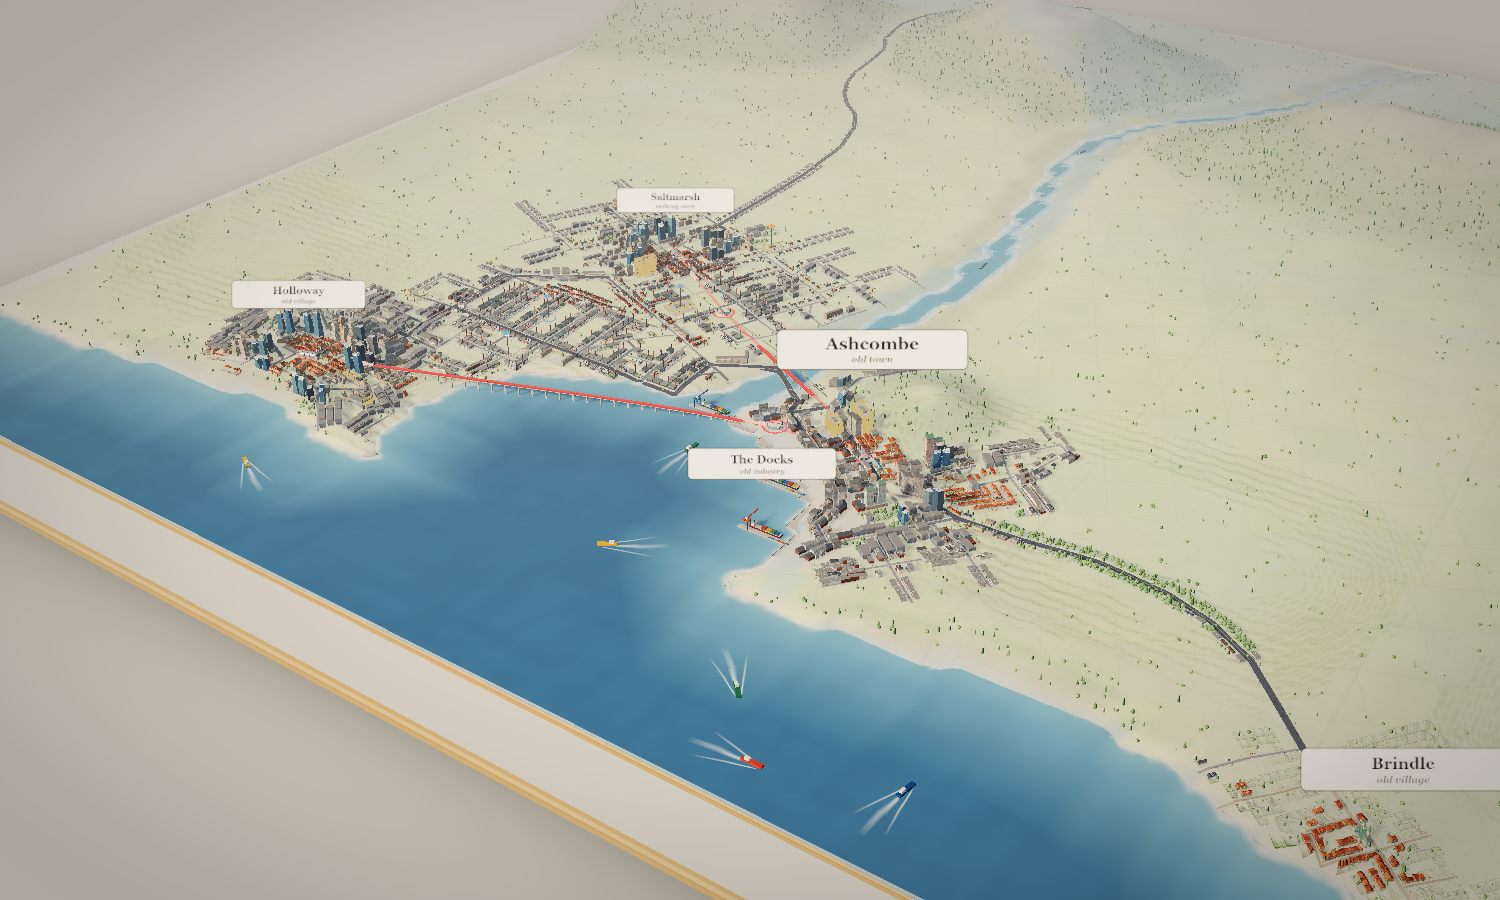
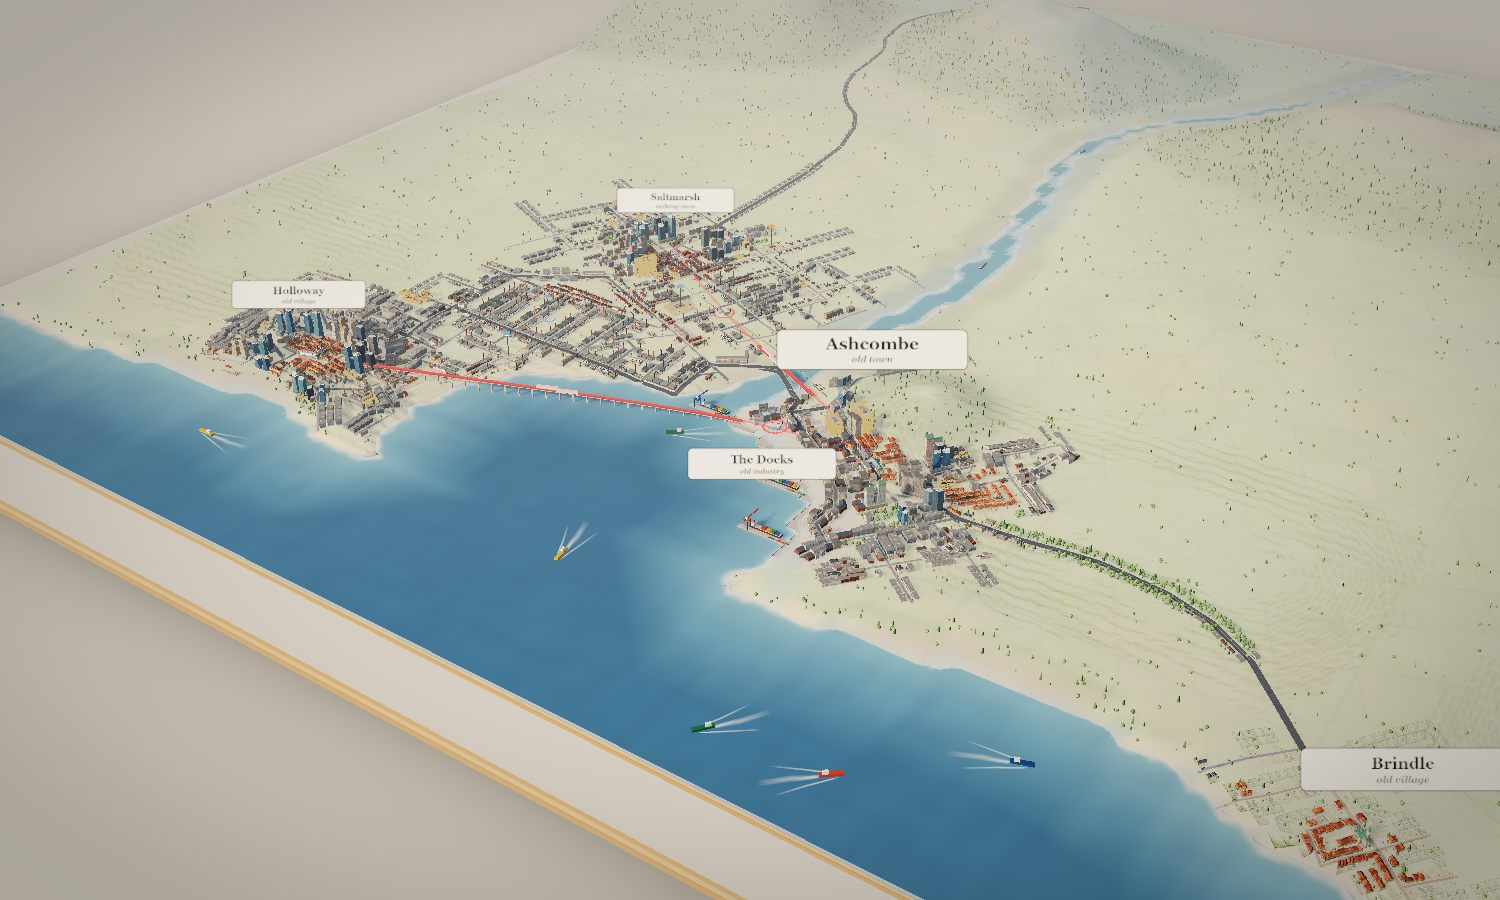
VISUAL-PASS: work log, perf table, fun-pass event mapping, ranked issues, next steps; final after captures of seed 4821; HANDOVER pointer

diff --git a/VISUAL-PASS.md b/VISUAL-PASS.md
@@ -66,3 +66,81 @@ not drop), sky and grade about 0. The budget is therefore used up: anything adde
 - The WIP tip already passed `tsc --noEmit` and `npm run build`: the "half-written" night-lights module was in fact complete (`NightLights`, `shoreGlow`, the water
   emissive hook). Checked in the browser: lane dashes, edge lines and zebra crossings at junction plates (`visual-roads-c`), tree thinning at overview, ship wakes,
   water glow at night, lens easing (`visual-wip-*`).
+
+### What changed, by commit
+| commit | what |
+|---|---|
+| 277b476 | pass 1: sky dome and studio table, time-of-day palette / fog / graded output, ground colour patches and field pattern, per-building facades and roofs, moonlit night (street lamps and station glow as one Points draw call) |
+| 2c98bed | diegetic UI layer (paper tags on pins, flags, cost slip, coin pops, news slips) and the HUD as table objects (ledger strip, desk calendar, brass odometer, desk rail, tracing paper in plan mode) |
+| 98a5c12 | the WIP picked up in session 2: lane markings and crosswalks, tree thinning, water night glow, ship wakes, lens easing. It already built; nothing needed fixing |
+| ac478a9 | verification of the WIP in the browser, A/B cost of the whole pass |
+| 2aca1e0 | `camfeel.ts`: wheel zoom eased and anchored at the cursor, smoothed WASD pan, wind sway on tree crowns |
+| aad703f | full fun-pass event mapping, newspaper, goal clipboard, dial plate, hoardings, site briefs, crowds that follow line load |
+| 9a4ac9c | roof detail that shows (the plain parapet slab hid the building shader's roof code), plant rooms on offices, district names stand back when tags are on |
+
+Captures (seed 4821, 1500x900): `screenshots/visual-before-4821-{overview,mid,street}-{day,dusk,night}.jpg` against `visual-after-4821-*` (same views), UI captures
+`visual-after-ui-overview-{day,night}.jpg`, `visual-ui-events.jpg` (every event kind at once), `visual-ui-hoarding.jpg`, `visual-after-roof.jpg`, `visual-roads-*.jpg`.
+
+## 4. Performance: baseline against final
+High, seed 4821, month 120, day, 1500x900, GPU p50 in ms with a GPU sync after each frame. The dev GPU is shared (Intel Iris Xe, other tabs), so the baseline of section 2 was taken in a
+quieter moment than the final run: the honest figure is the interleaved A/B in one page (all flags off = the classic look, same code, same frames), 40 frames x 5-6 rounds.
+
+| view | baseline (sec. 2) | final (best of 3) | A/B in one page: median (min of rounds) | draw calls, classic -> pass | k tris, classic -> pass |
+|---|---|---|---|---|---|
+| overview | 9.84 | 10.61 | +8% (+16%) | 443 -> 447 | 707 -> 713 |
+| mid | 9.37 | 9.37 | +10% (+18%) | varies with shadow redraws | 613 -> 646 |
+| street | 9.37 | 9.24 | +8% (+3%) | 276 -> 289 | 566 -> 597 |
+
+The call counts of the A/B pairs differ by a handful (the mark mesh, the lamp Points, wakes); counts in the baseline table of section 2 were taken while chunks were still rebuilding and are not comparable.
+Per feature (A/B, noise about 5%): ground colour +2-4%, building facades and roofs +1-4%, night lights about 1%, tree sway / lens / camera 0%, road marks 0%, tree thinning 0%, sky and grade about 0,
+diegetic canvas 0.05 ms CPU per frame, newspaper and clipboard are DOM touched only on change. Typical cost of the whole pass is about +8% GPU; the "min of rounds" column is the worst case and
+is at the 10% line or a little over at overview and mid. There is no new full-screen pass (the grade is folded into the existing output pass; no blur). Auto (default) steps the render scale down
+whenever the frame goes over 15.5 ms, so on a slower GPU the pass is paid for by resolution rather than frame time; on this machine Auto stayed at 1.0 in all three views.
+
+Behind High / cut: nothing is High-only so far (Auto absorbs the cost). Candidates if a lower tier is wanted: `?novfx=ground` (-3%), `?novfx=bld` (-3%), `?novfx=night`; every look is one flag in `vfx.ts`.
+Cut candidates (not removed, the user decides): the `Zones` and `Land value` toolbar buttons (see DESIGN-FUN.md section 4); `?hud=classic` once the diegetic HUD is accepted.
+
+## 5. Fun-pass events and how the diegetic layer presents them
+`ui.notify(e)` accepts the `GameEvent` of `worktree-agent-a884a845a686b0163:src/ui/gameEvents.ts` unchanged (the structural copy is `src/ui/diegetic/events.ts`; extra fields are ignored). When the branches
+meet: `gameEvents.onAny((e) => dg?.notify(e))` in main.ts and drop the DOM presenter in `feedback.ts` (else every beat shows twice). Until then `tsm.fun('all')` (or one kind) fires samples.
+
+| event | where it lands | how |
+|---|---|---|
+| `stationOpened` | on the model | the station's tag pulses (expanding ring) and a paper slip "X station opens"; the fun-pass ripple stays a world effect |
+| `lineOpened` | on the table | a front page of "The Tidewater Times" is laid on the table with the line-coloured ribbon hanging from its corner (click to dismiss, 9 s) |
+| `moment` | table + model | `big`: the newspaper; else a paper slip. When it has a place (`x`, `y`, and not a goal) a brief is pinned at the site for 9 s (`ui.brief`), so "Cranes at Chapel" is at Chapel |
+| `objectives` | table + model | the clipboard (goal title, bar, `cur of target`, reward, ticked count) bottom right; a goal with a place gets a gold flag pinned at the site |
+| `objectiveReached` | table | a big gold-edged slip; the newspaper is kept for line openings |
+| `fare` | model | a coin pop rising above the station (it was in the wrong units before: cells used as metres) |
+| `crowding` | model | `lineLoad` turns the station tag red ("packed"); the crowds at the entrances grow and pack (also derived from the state's peak load, so they work without the event) |
+| `planCost` | hybrid | the cost slip (tracing paper) that follows the cursor in plan mode: always screen-space, always legible; the event refreshes its text |
+| `stationDug` | model | "-$5.0M" pops at the dug site |
+| `undo` | model + table | "+$5.0M" pops at the site and a slip "Plan taken back" |
+| `clock` | table | the brass dial plate on the desk rail: needle at the speed, label WAITING / PLANNING / PAUSED / RUNNING / AUTO (the state's speed drives it until the first event) |
+
+Hybrid rule kept: money (brass odometer), date (desk calendar), pause / speed (brass buttons + dial), quality (rail) and the cost slip are DOM / screen-space and stay legible at every zoom;
+station names, ridership, project hoardings, flags, briefs and goal pins are in the world with distance LOD (full tag, mini badge, hidden) and overlap rejection, all on one canvas.
+
+## 6. Ranked issues: solved and left
+1. Flat light, no depth: solved (palette, fog, sky, grade; golden hour at dusk).
+2. No sky or horizon: solved (dome, studio table).
+3. Empty ground: mostly solved (colour patches, fields); far hills still low contrast at noon.
+4. Weak night: solved (lamps, station glow, window mix, water glow); no bloom on lit tower crowns beyond the sprites.
+5. Samey buildings: improved (facades, floors, shopfronts, roof patches and plant rooms); the tower styles' own roofs are still bare.
+6. Plain streets: solved on arterials and collectors (dashes, edge lines, zebra crossings); cobbled cores and local streets have none on purpose.
+7. Noisy far view: improved (tree thinning, marks fade).
+8. Dead water: improved (wakes, night lights in the water); no sun glint or reflections.
+9. Generic HUD: solved for the table objects; the left panel is still a long list; goals have a clipboard.
+10. Camera: solved (wheel eased about the cursor, lens widens close in, pan glides).
+
+## 7. What I would do next
+- Merge the fun branch and wire `gameEvents.onAny` (one line), then retire the placeholder DOM presenter.
+- Roof detail for the tower styles (`towers.ts`), a halo around lit tower crowns, a cheap sun glint on the water.
+- Replace the long left list with pins: a project row becomes the hoarding on the map; keep only the totals on the table.
+- Hoardings that follow the camera azimuth (screen-aligned cards now) and open into the decision card on click.
+- A real tree LOD (an imposter quad past 3 km): the current thinning hides vertices but does not reduce vertex work, and trees are still the largest GPU line at overview.
+
+## 8. Honest take
+The model now reads as a model: it has a light, a horizon, a bright side and a shaded side, storeys and roofs, and at dusk and night it is the best looking thing in the game. The paper tags,
+hoardings, newspaper and clipboard give the table a voice and I would keep them. What is not there: it is still low-poly boxes and cones, trees and far hills are plain, the left panel is still a panel,
+and the performance headroom is spent (about +8% typical, at the edge of the 10% budget in the worst samples), so the next visual item has to be paid for. Measurements are from a shared integrated GPU and swing by 5-10% between runs.

diff --git a/HANDOVER.md b/HANDOVER.md
@@ -95,3 +95,6 @@ Stronger macro structure and density discipline, NOT more variation (no new buil
 - Bridge landmark missing; landmark proposals ignore `dominantBuildingTypes`; no rating milestones (unlocks are month/population only).
 - (fixed) Docks `built` count: see PROGRESS.
 - Git on Windows prints LF->CRLF warnings; harmless. `screenshots/*.png` is git-ignored.
+
+## Visual pass branch (worktree-agent-aa7573285fba2d85f, not merged, not pushed)
+Read VISUAL-PASS.md (diagnosis, perf table, fun-pass event mapping, next steps). Switches: `?vfx=0` classic look, `?novfx=name,...`, `?hud=classic` old HUD. Dev: `tsm.fun(kind|'all')` fires sample events through the diegetic layer, `tsm.dg` is the layer, `scripts/visual-bench.js` has `__cap`, `__bench`, `__ab`, `__setup`.
